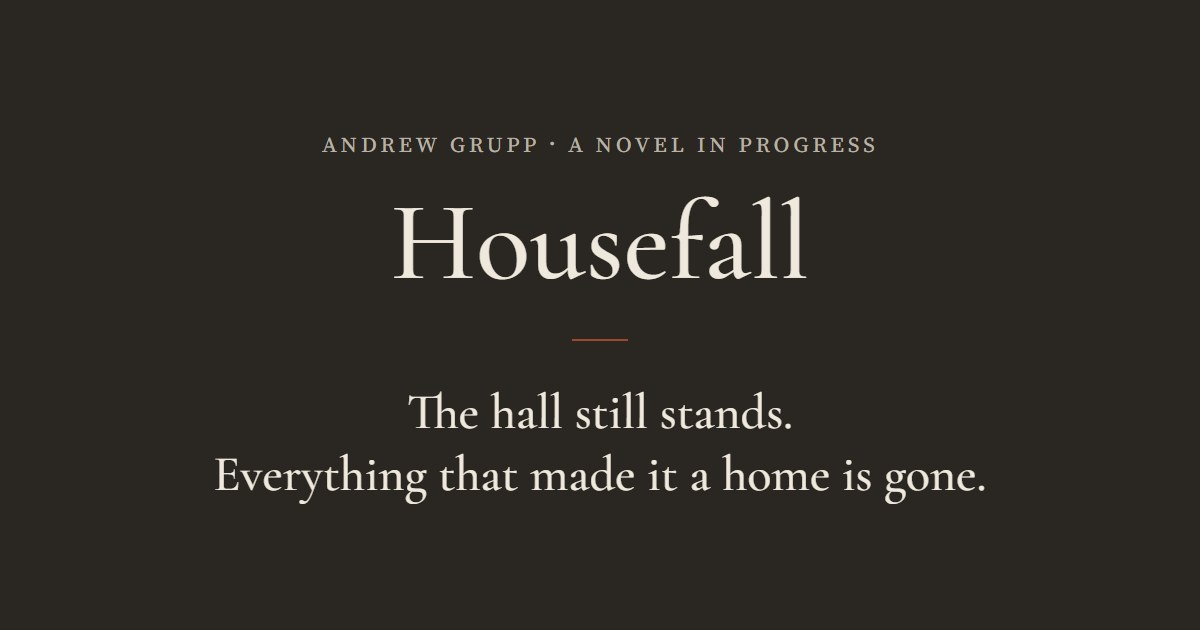
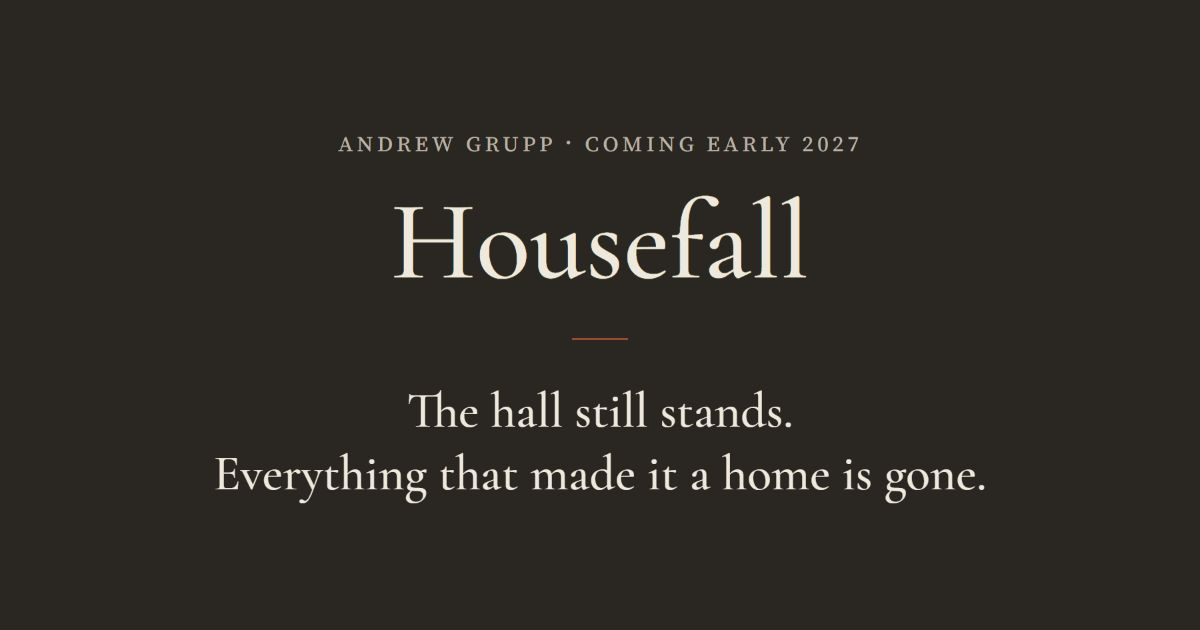
Announce Housefall for early 2027

diff --git a/scripts/share-card.html b/scripts/share-card.html
@@ -18,5 +18,5 @@ h1{font:500 112px/1 Cormorant,Georgia,serif;margin:0}
 </style>
 <!-- Render at 1200 x 630: /scripts/share-card.html#site and #housefall. -->
 <div class="card" id="site"><div class="text"><p class="label">Andrew Grupp</p><h1>Ash and Pine</h1><p class="sub">A Collection of Prose and Poetry</p><div class="rule"></div></div><img src="/assets/books/ash-and-pine-approved-720.jpg" alt=""></div>
-<div class="card" id="housefall"><p class="label">Andrew Grupp · A novel in progress</p><h1>Housefall</h1><div class="rule"></div><p class="tag">The hall still stands.<br>Everything that made it a home is gone.</p></div>
+<div class="card" id="housefall"><p class="label">Andrew Grupp · Coming early 2027</p><h1>Housefall</h1><div class="rule"></div><p class="tag">The hall still stands.<br>Everything that made it a home is gone.</p></div>
 </html>

diff --git a/README.md b/README.md
@@ -40,7 +40,7 @@ The supplied photo originals are retained locally in the ignored `reference-asse
 
 Contact is generated and linked only when both `email` and `emailEnabled` are set. Journal is generated only when published entries exist. Until then, neither page appears in navigation or the sitemap. The footer contains no inactive correspondence link.
 
-Book metadata lives with each book. Housefall is historical fiction in progress, with no implied release date.
+Book metadata lives with each book. Housefall is forthcoming historical fiction, coming early 2027. Its `year` remains `null` until publication so it uses the forthcoming-book layout; the release window lives in `status`, not an invented exact publication date.
 
 ## Publish a journal entry
 
